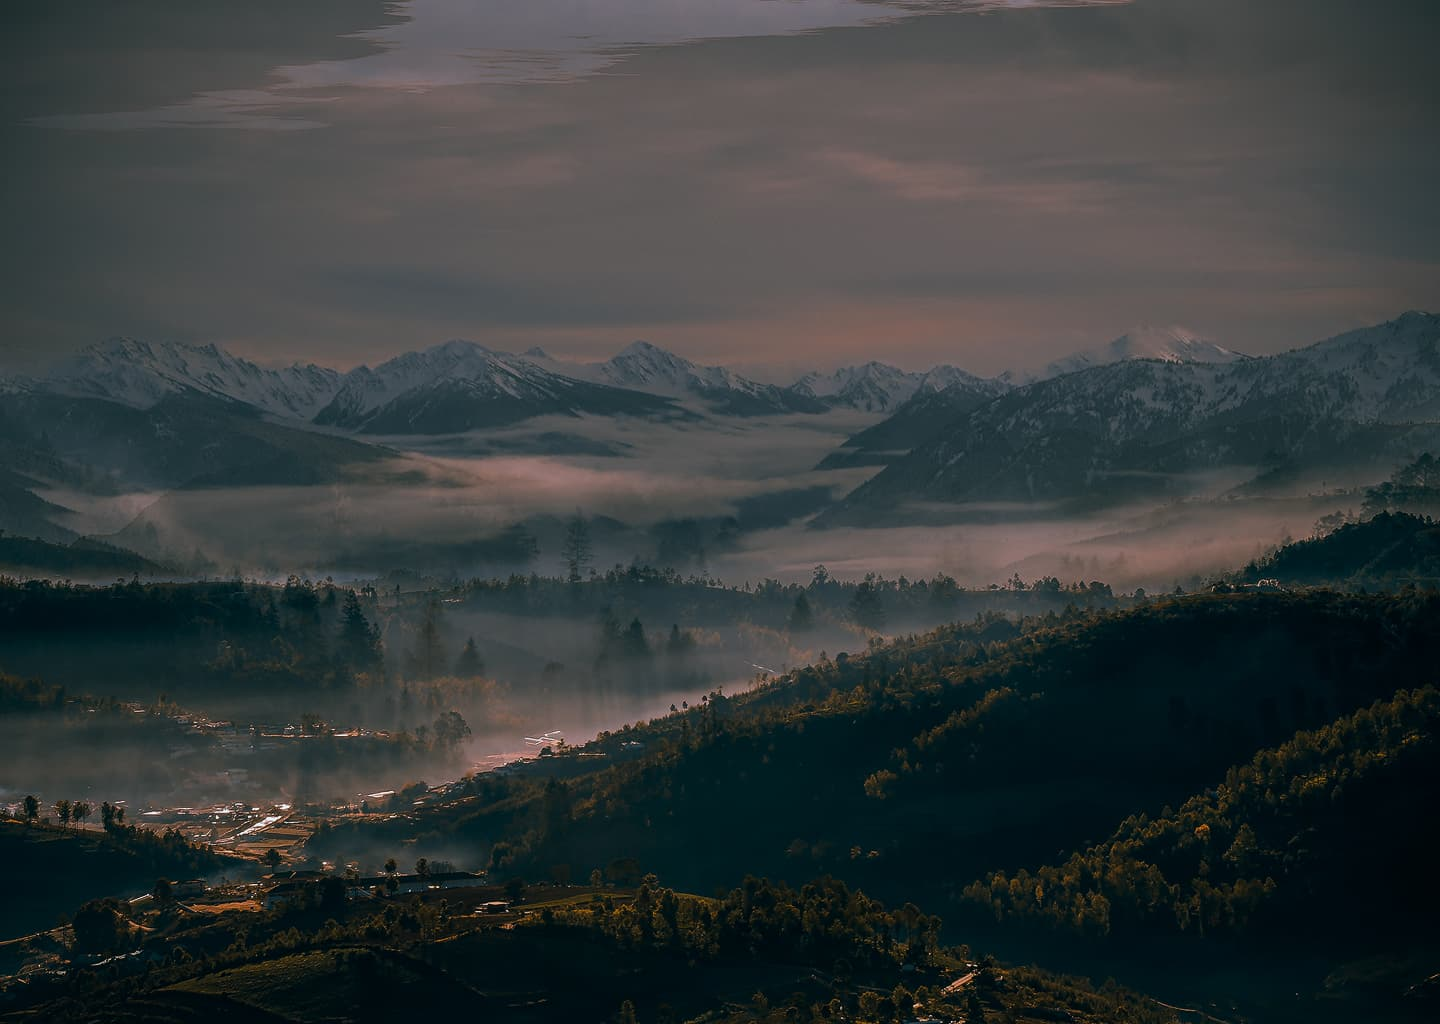
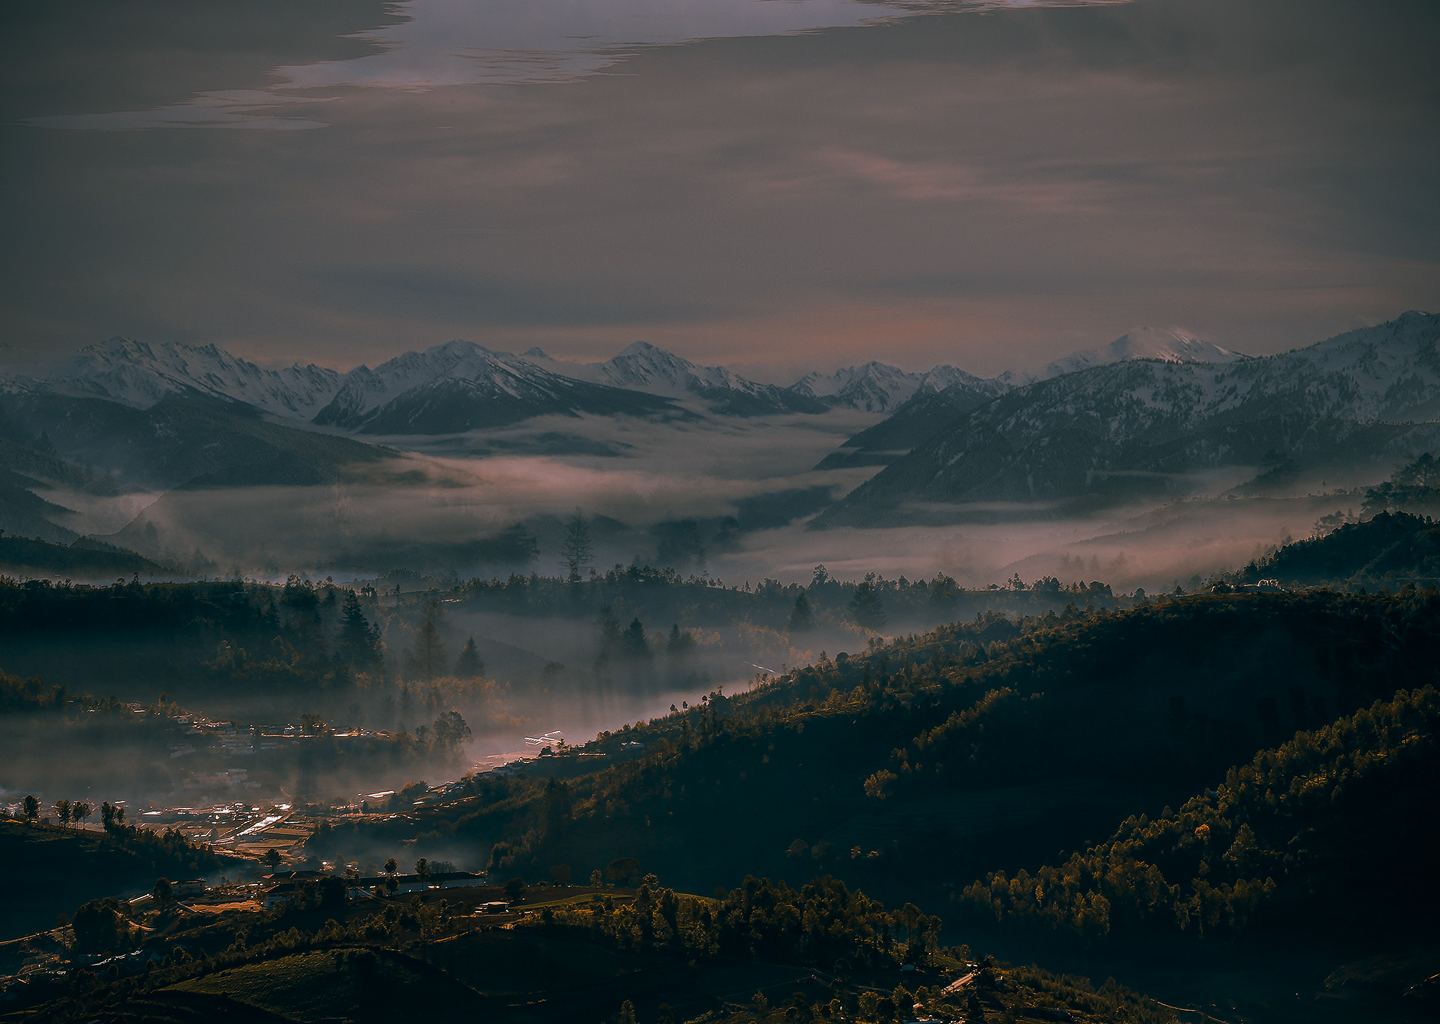
responsive hero pc

diff --git a/partials/header.html b/partials/header.html
@@ -1,16 +1,57 @@
-<header>
-     <header class="header">
-        <div class="header-container">
-          <a href="/">
-            <svg class="logo">
-              <use href="./src/assets/svg/symbol-defs.svg#icon-Logo"></use>
-            </svg>
-          </a>
-          <button class="burger-btn" type="button">
-            <svg class="burger-menu">
-              <use href="./src/assets/svg/symbol-defs.svg#icon-menu"></use>
-            </svg>
-          </button>
-        </div>
-      </header>
+<header class="header">
+  <div class="header-container">
+    <nav class="nav__header">
+      <a href="/">
+        <svg class="logo">
+          <use href="./src/assets/svg/symbol-defs.svg#icon-Logo"></use>
+        </svg>
+      </a>
+      <ul class="nav__header-list">
+        <li class="nav__header-item">
+          <a href="">About us</a>
+        </li>
+        <li class="nav__header-item">
+          <a href="">Tours</a>
+        </li>
+        <li class="nav__header-item">
+          <a href="">Reviews</a>
+        </li>
+        <li class="nav__header-item">
+          <a href="">Gallery</a>
+        </li>
+        <li class="nav__header-item">
+          <a href="">Contacts</a>
+        </li>
+      </ul>
+    </nav>
+    <button class="burger-btn" type="button">
+      <svg class="burger-menu">
+        <use href="./src/assets/svg/symbol-defs.svg#icon-menu"></use>
+      </svg>
+    </button>
+    <ul class="hero__social-list">
+      <li class="hero__social-item">
+        <a href="">
+          <svg>
+            <use
+              href="./src/assets/svg/symbol-defs.svg#icon-telegram"
+            ></use></svg>
+      </a>
+      </li>
+      <li class="hero__social-item">
+        <a href=""
+          ><svg>
+            <use
+              href="./src/assets/svg/symbol-defs.svg#icon-instagram"
+            ></use></svg></a>
+      </li>
+      <li class="hero__social-item">
+        <a href="">
+          <svg>
+            <use
+              href="./src/assets/svg/symbol-defs.svg#icon-facebook"
+            ></use></svg></a>
+      </li>
+    </ul>
+  </div>
 </header>

diff --git a/src/scss/_hero.scss b/src/scss/_hero.scss
@@ -6,7 +6,7 @@
   );
   background-size: cover;
   background-repeat: no-repeat;
-  background-position: top center;
+  background-position: center;
 }
 
 .wraper-hero {
@@ -52,6 +52,9 @@
   font-size: var(--fs-6);
   font-weight: 500;
 }
+.hero__social-list {
+  display: none;
+}
 
 @media (min-width: 768px) {
   .hero-wrapper {
@@ -84,21 +87,49 @@
   .btn-hero {
     width: 394px;
     height: 56px;
-    margin: 60px 0 185px;
+    margin: 60px 0 0;
   }
 }
 
 /* Desktop */
 @media (min-width: 1440px) {
   .hero-wrapper {
+    height: 1024px;
     background-image: url("/images/hero/hero_desk.jpg");
     background-image: image-set(
       url("/images/hero/hero_desk.jpg") 1x,
       url("/images/hero/hero_desk@2x.jpg") 2x
     );
+
+    background-size: cover;
   }
 
   .header {
     max-width: 1440px;
+  }
+  .title-hero {
+    width: 1170px;
+    margin-top: 162px;
+    .title-hero__br {
+      display: none;
+    }
+  }
+  .text-hero {
+    width: 575px;
+    margin-top: 40px;
+  }
+  .btn-hero {
+    width: 575px;
+    height: 69px;
+  }
+  .header-container {
+    position: relative;
+  }
+
+  .hero__social-list {
+    position: absolute;
+    display: flex;
+    flex-direction: column;
+    bottom: 0;
   }
 }

diff --git a/src/scss/_header.scss b/src/scss/_header.scss
@@ -28,6 +28,9 @@
     color: var(--dark-color);
   }
 }
+.nav__header-list{
+  display: none;
+}
 
 @media (min-width: 768px) {
   .header {
@@ -38,4 +41,52 @@
     width: 60px;
     height: 60px;
   }
+}
+
+@media (min-width: 1440px) {
+  .header {
+    padding: 40px 135px 0;
+  }
+  .logo {
+    width: 60px;
+    height: 60px;
+  }
+  .burger-menu {
+    display: none;
+  }
+  .nav__header {
+    display: flex;
+    align-items: center;
+    width: 100%;
+  }
+  .nav__header-list {
+    display: flex;
+    margin-left: auto;
+    gap: 80px;
+  }
+  .nav__header-item {
+    position: relative;
+    color: var(--secondary-color);
+    font-size: 24px;
+    font-weight: 500;
+
+    &::before {
+      content: "";
+      position: absolute;
+      left: 0;
+      bottom: -5px;
+      width: 100%;
+      height: 2px;
+      background-color: var(--secondary-color);
+
+      transform: scaleX(0);
+      transform-origin: left;
+      transition: transform 0.3s ease;
+    }
+
+    &:hover::before {
+      transform: scaleX(1);
+    }
+  }
+  
 }
